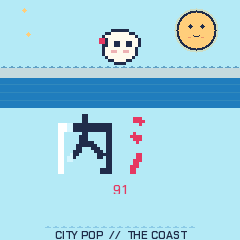
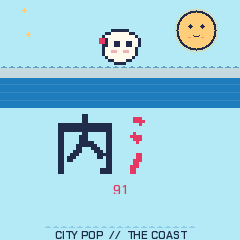
Second design pass: the clipped row, the optical line, the shine, the bubble's edge
- the arrangement rows use a 26 px pitch and a 24 px height from y 27, so the fourth row ends
  at 168 inside the 172 px main area instead of running 3 px past it.
- cv_round clamps a radius to six, which is why the chord card's 14 px and the rows' 10 px
  were both drawing 6 px corners. cv_round_big takes the corner rows from an integer circle,
  so the 14 px card, the 12 px rows and the 11 px bubble are real, and the softening is shape
  rather than fill.
- header: title and PLAY share one baseline (ink 8..16 and 9..16, centres 12 and 12.5).
- boot card: the wordmark keeps its wipe and loses the white shine column (a 9 x 51 slab in
  the capture); the capture now has no pure-white pixel at all.
- the bubble's edge was mix(panel, line, 7) at 1.31:1; it is the card edge at 4.8:1.
- the chord card's content sits on its optical centre and the scallop marks its floor; the
  parameter pages lead their title with the mascot instead of repeating the header's head in
  the same column.

Changed region(s): [[0.2333, 0.4958, 0.3208, 0.7292]]

diff --git a/firmware/src/app/ui.c b/firmware/src/app/ui.c
@@ -4848,13 +4848,35 @@ static uint16_t mix(uint16_t a, uint16_t b, int t)   /* t 0..16: a -> b */
     return (uint16_t)(r << 11 | g << 5 | bl);
 }
 static int q16(float x) { return x <= 0.0f ? 0 : x >= 1.0f ? 16 : (int)(x * 16.0f + 0.5f); }
+static int32_t isqrt32(uint32_t v);          /* (defined with the boot card's sun) */
+/* a rounded rectangle with a radius bigger than six: the corner rows come from an integer circle, so a
+ * 14 px card corner is still exact pixel geometry, not a curve routine */
+static void cv_round_big(int32_t x, int32_t y, int32_t w, int32_t h, int32_t r, uint16_t c)
+{
+    int32_t j;
+    if (r > h / 2)
+        r = h / 2;
+    if (r > w / 2)
+        r = w / 2;
+    if (r <= 6) {
+        cv_round(x, y, w, h, r, c);
+        return;
+    }
+    cv_rect(x, y + r, w, h - 2 * r, c);
+    for (j = 0; j < r; j++) {
+        const int32_t d = r - 1 - j;
+        const int32_t dx = r - isqrt32((uint32_t)(r * r - d * d));
+        cv_rect(x + dx, y + j, w - 2 * dx, 1, c);
+        cv_rect(x + dx, y + h - 1 - j, w - 2 * dx, 1, c);
+    }
+}
 /* a card: the panel's cream, one pixel of rule round it. Cream on a pale ground is 1.3:1, so the ring
  * carries the edge (5.5:1 against the ground); at a 12-14 px radius it reads as a sticker, which is
  * the shape doing the softness instead of a washed-out fill. */
 static void cv_card(int32_t x, int32_t y, int32_t w, int32_t h, int32_t r)
 {
-    cv_round(x, y, w, h, r, mix(K_PANEL, K_TEXT, 12));
-    cv_round(x + 1, y + 1, w - 2, h - 2, r > 1 ? r - 1 : 1, K_PANEL);
+    cv_round_big(x, y, w, h, r, mix(K_PANEL, K_TEXT, 12));
+    cv_round_big(x + 1, y + 1, w - 2, h - 2, r > 1 ? r - 1 : 1, K_PANEL);
 }
 
 static const char *const MASCOT[23];            /* the visualizer's dancer (viz.c) */
@@ -4960,7 +4982,7 @@ static void draw_header(void)
         cv_text(12,6,&FONT_XS,jam_ui_title(),K_TEXT);
         {   /* the state, right-aligned in the card and clear of the mascot's eight-pixel inset */
             const char *st=JV(playing,en_playing)?"PLAY":"STOP";
-            cv_text(204-text_w(&FONT_XS,st),13,&FONT_XS,st,K_ACC_TXT);
+            cv_text(204-text_w(&FONT_XS,st),6,&FONT_XS,st,K_ACC_TXT);   /* one baseline with the title */
         }
         draw_nami(210,7);
         {   /* the key strip: its own row, under the card's edge */
@@ -4979,7 +5001,7 @@ static void draw_header(void)
         cv_card(6,1,228,26,6);
         cv_text(12,6,&FONT_B,jam_ui_title(),K_TEXT);
         {   const char *st=JV(playing,en_playing)?"PLAY":"STOP";
-            cv_text(204-text_w(&FONT_XS,st),15,&FONT_XS,st,K_ACC_TXT); }
+            cv_text(204-text_w(&FONT_XS,st),6,&FONT_XS,st,K_ACC_TXT); }
         draw_nami(210,7);
         cv_scallop(0,38,240,mix(K_BG,K_LINE,9));
         cv_blit(0,0);return;
@@ -7098,20 +7120,20 @@ static void draw_main(void)
         if(h==ui.sig[1])return;
         ui.sig[1]=h;
         cv_begin(240,MAIN_H,K_BG);
-        cv_text(8,3,&FONT_B,row==3 && jam_ui_version()==3?"SYNTH JAM":titles[row],K_TEXT);
-        draw_sparkle(192,8,2,K_PULSE);                            /* a sparkle by the title */
-        draw_nami(210,2);                                         /* and the mascot, so the identity is here too */
+        draw_nami(8,1);                                           /* a companion by the title, not a copy of the header's */
+        cv_text(30,4,&FONT_B,row==3 && jam_ui_version()==3?"SYNTH JAM":titles[row],K_TEXT);
+        draw_sparkle(222,6,2,K_PULSE);                            /* a sparkle at the far end of the title line */
         cv_scallop(8,22,224,mix(K_BG,K_LINE,9));
         for(k=0;k<4;k++) {
             int field=jam_ui_row_field(row,k,fields[row][k]),value=jam_ui_option(field);
-            const int32_t y=27+(int32_t)k*28;
+            const int32_t y=27+(int32_t)k*26;
             if(field==JAM_FORM)value=state.form;
                 if(field==JAM_BARS)value=state.bars;
             if(field==JAM_MOVE)value=state.movement;
                 if(field==JAM_ENERGY)value=state.energy;
-            cv_card(6,y,228,25,5);                                /* a row, a cream pill */
+            cv_card(6,y,228,24,10);                               /* a row: the same sticker radius as the chord card */
             if (plat_ms() < ui.touch_until && (int)k == (int)ui.touched)
-                cv_round(2, y + 4, 3, 17, 1, K_ACC_TXT);          /* the row the last knob touched */
+                cv_round(2, y + 4, 3, 16, 1, K_ACC_TXT);          /* the row the last knob touched */
             cv_text(13,y+5,&FONT_XS,field==JAM_SYNTH?"MODE":field==JAM_SPACE?"SPACE":field==JAM_KEYS_PROGRAM || field==JAM_BASS_PROGRAM?"PROGRAM":field==JAM_KEYS_OCTAVE || field==JAM_BASS_OCTAVE?"OCTAVE":names[row][k],K_DIM);
             if(field==JAM_SYNTH)cv_text(226-text_w(&FONT_B,value?"SYNTH":"BAND"),y+4,&FONT_B,value?"SYNTH":"BAND",K_ACC_TXT);
             else if(field==JAM_FORM)cv_text(226-text_w(&FONT_XS,jam_ui_form()),y+5,&FONT_XS,jam_ui_form(),K_TEXT);
@@ -7129,7 +7151,7 @@ static void draw_main(void)
         cv_blit(0,MAIN_Y);return;
     }
     if(ui.view==V_JAMHELP) {
-        jp_settings_t s; char a[32],b[32],t[32],root[2]; unsigned k;
+        jp_settings_t s; char a[32],b[32],t[32]; unsigned k;
         static const char *const role[]={"VERSE","CHORUS","BRIDGE","RETURN"};
         jam_ui_get(&s);
         h=hash(0x4a414d32u,JV(beat,en_jam_beat) | JV(length,en_jam_length)<<8 | JV(pending,en_jam_pending)<<16 | JV(busy,en_jam_busy())<<17 | (uint32_t)(JV(load,en_jam_load)+1)<<18 | (uint32_t)JV(source,en_jam_source())<<22);
@@ -7137,18 +7159,19 @@ static void draw_main(void)
         for(k=0;k<sizeof s;k++) h=hash(h,((const uint8_t *)&s)[k]);
         if(h==ui.sig[1]) return;
         ui.sig[1]=h;
-        jam_ui_name(0,a); jam_ui_name(1,b); root[0]=a[0];root[1]=0;
+        jam_ui_name(0,a); jam_ui_name(1,b);
         cv_begin(240,MAIN_H,K_BG);
         cv_card(8,2,224,60,14);                               /* the song's card: a deep-rounded cream sheet */
-        draw_nami_scale(16,12,2);                             /* the mascot, 32 x 28 */
-        cv_round(54,6,74,34,8,mix(K_PANEL,K_LINE,7));         /* her bubble, two lines of slate */
-        cv_round(55,7,72,32,7,K_PANEL);
-        cv_text(62,10,&FONT_XS,role[JV(section,en_jam_section)%4],K_DIM);
-        cv_text(62,23,&FONT_XS,s.hold?"HELD":"EVOLVING",K_ACC_TXT);
-        cv_text(228-text_w(&FONT_L,a),10,&FONT_L,a,K_ACC);    /* the chord, the page's one large mark */
+        draw_nami_scale(16,14,2);                             /* the mascot, 32 x 28 */
+        cv_round_big(54,6,74,34,11,mix(K_PANEL,K_TEXT,12));   /* her bubble: the same sticker edge as the cards */
+        cv_round_big(55,7,72,32,10,K_PANEL);
+        cv_text(62,12,&FONT_XS,role[JV(section,en_jam_section)%4],K_DIM);
+        cv_text(62,25,&FONT_XS,s.hold?"HELD":"EVOLVING",K_ACC_TXT);
+        cv_text(228-text_w(&FONT_L,a),13,&FONT_L,a,K_ACC);    /* the chord, the page's one large mark */
+        cv_scallop(24, 53, 192, mix(K_PANEL, K_LINE, 9));     /* the card's floor: the motif, not empty space */
         if(JV(playing,en_playing)) {                          /* a sparkle while the band plays */
-            draw_sparkle(200, 50, 2, K_PULSE);
-            draw_sparkle(14, 56, 1, mix(K_PANEL, K_PULSE, 9));
+            draw_sparkle(200, 46, 2, K_PULSE);
+            draw_sparkle(70, 52, 1, mix(K_PANEL, K_PULSE, 9));
         }
         {   /* under the card: what comes next, and where the bar is */
             int32_t x=cv_text(12,66,&FONT_XS,"NEXT",K_DIM);
@@ -8581,7 +8604,6 @@ static void draw_splash(uint32_t t)
     int i;
     const float p = t > 900u ? 1.0f : (float)t / 900.0f;             /* the wipe */
     const float cols = 50.0f * p;
-    const float shine = 50.0f * ((float)(t % 1500u) / 1500.0f) * 1.5f - 24.0f;   /* the shine */
 
     cv_begin(240, 108, K_BG);
     draw_sun_face(196, 30, 18);
@@ -8599,7 +8621,7 @@ static void draw_splash(uint32_t t)
     cv_blit(0, 0);
 
     cv_begin(240, 132, K_BG);                        /* the name, and what is next */
-    draw_kanji_reveal(46, 0, 3, cols, shine, th->text, th->acc);   /* 内湾 */
+    draw_kanji_reveal(46, 0, 3, cols, -1000.0f, th->text, th->acc);   /* 内湾: the wipe, without the white column */
     text_c(120, 74, &FONT_S, "91", th->acc);
     for (i = 0; i < 16; i++)                         /* the steps: cream blocks, the lit ones in the accent */
         cv_rect(48 + (i & 7) * 18, 92 + (i >> 3) * 10, 14, 7, i < (int)(cols / 3.2f) ? (i & 1 ? th->pad : th->acc) : mix(K_BG, K_LINE, 6));
